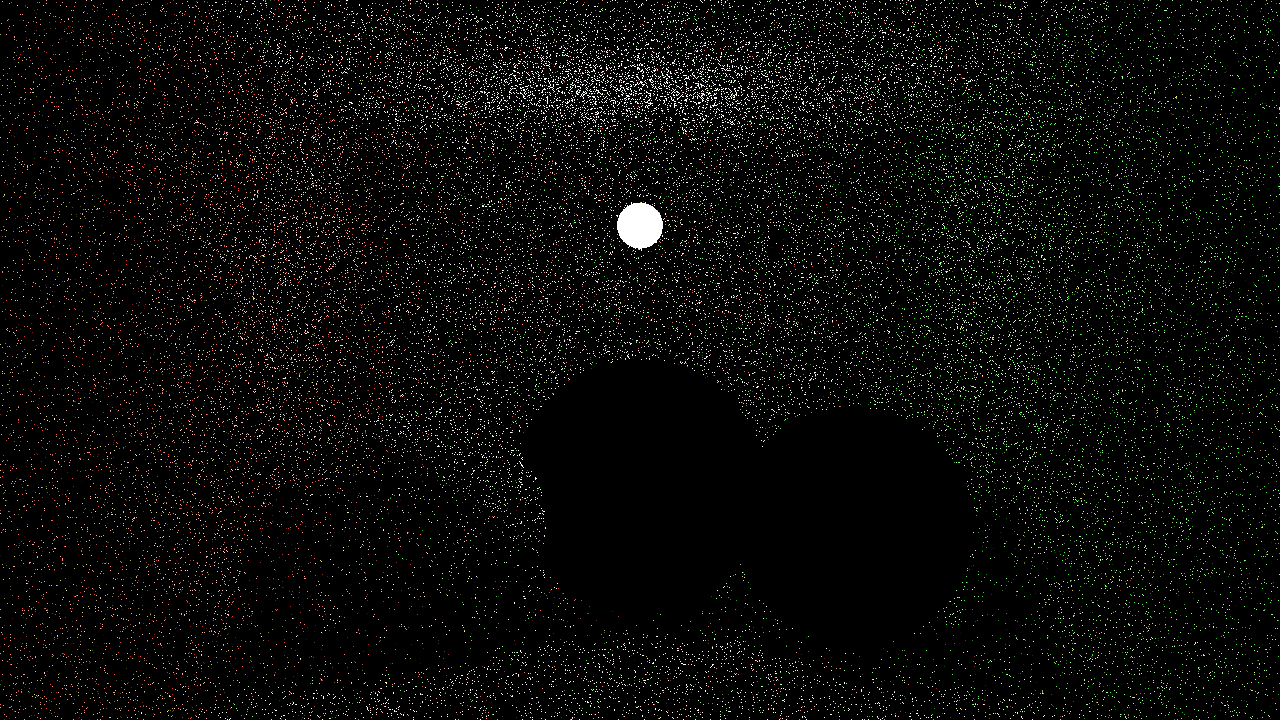
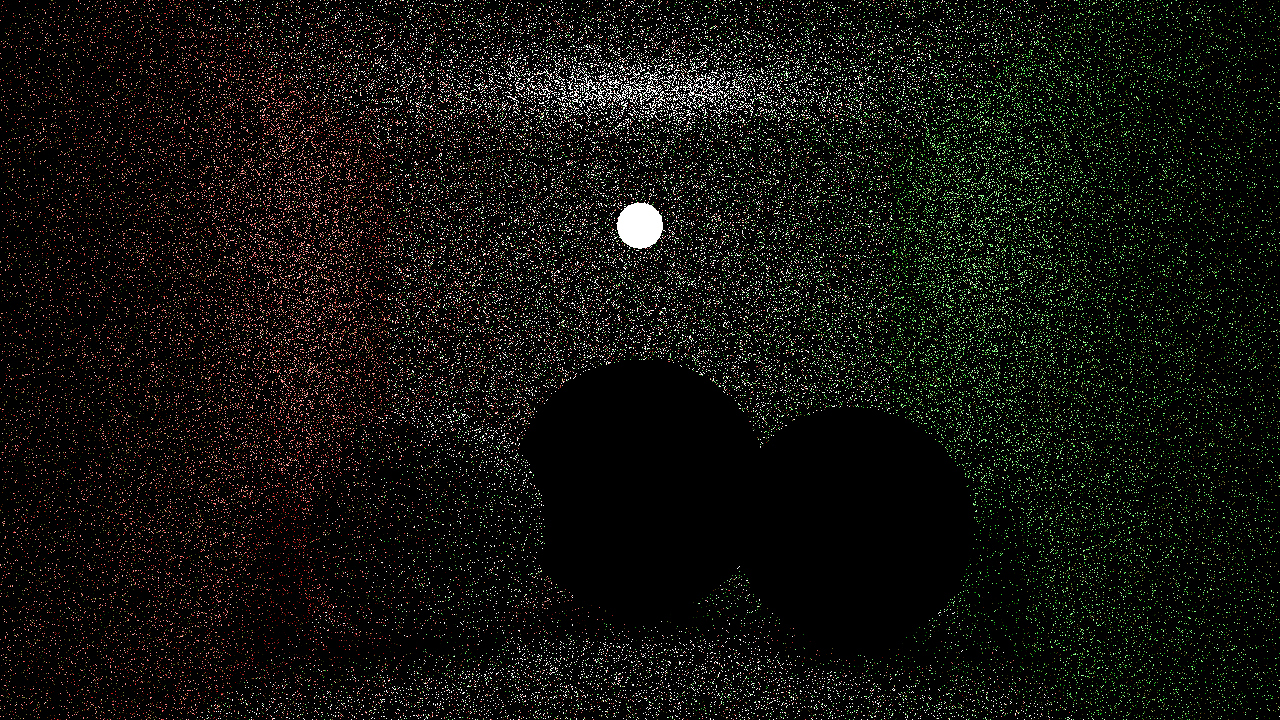
Switched to cosine weighted sampling for path tracing bounce

diff --git a/src/materials.h b/src/materials.h
@@ -217,27 +217,49 @@ public:
         transmissiveProb /= totalProb;
 
         const float randomNum{ sInfo.RandomFloat() };
-        if (randomNum < diffuseProb) // TODO: Do cosine weighted instead of uniform
+        //if (randomNum < diffuseProb)
+        //{
+        //    si.lobe = DirSampler::Lobe::DIFFUSE;
+
+        //    // Uniform hemisphere sample
+        //    const float r1{ sInfo.RandomFloat() };
+        //    const float cosTheta{ sInfo.RandomFloat() };
+        //    const float sinTheta{ sqrtf(1.0f - (cosTheta * cosTheta)) };
+        //    const float phi{ 2.0f * Pi<float>() * r1 };
+
+        //    const float x{ cosf(phi) * sinTheta };
+        //    const float y{ sinf(phi) * sinTheta };
+
+        //    Vec3f u, v;
+        //    sInfo.N().GetOrthonormals(u, v);
+
+        //    dir = (u * x) + (v * y) + (sInfo.N() * cosTheta);
+
+        //    si.prob = diffuseProb / (2.0f * Pi<float>());
+        //    si.mult = diffuse.GetValue() / Pi<float>();
+
+        //    return true;
+        //}
+        if (randomNum < diffuseProb)
         {
             si.lobe = DirSampler::Lobe::DIFFUSE;
 
-            // Uniform hemisphere sample
-            const float r1{ sInfo.RandomFloat() };
-            const float cosTheta{ sInfo.RandomFloat() };
-            const float sinTheta{ sqrtf(1.0f - (cosTheta * cosTheta)) };
-            const float phi{ 2.0f * Pi<float>() * r1 };
-
-            const float x{ cosf(phi) * sinTheta };
-            const float y{ sinf(phi) * sinTheta };
+            // Cosine weighted hemisphere sample
+            const float r{ sqrtf(sInfo.RandomFloat()) };
+            const float theta{ 2.0f * Pi<float>() * sInfo.RandomFloat() };
+            const float x{ r * cosf(theta) };
+            const float y{ r * sinf(theta) };
+            const float z{ sqrtf(std::max(0.0f, 1.0f - x*x - y*y)) };
 
             Vec3f u, v;
             sInfo.N().GetOrthonormals(u, v);
 
-            dir = (u * x) + (v * y) + (sInfo.N() * cosTheta);
+            dir = (u * x) + (v * y) + (sInfo.N() * z);
+
             const float geometryTerm{ std::max(0.0f, sInfo.N().Dot(dir)) };
 
-            si.prob = diffuseProb / (2.0f * Pi<float>());
-            si.mult = diffuse.GetValue() * geometryTerm / Pi<float>();
+            si.mult = diffuse.GetValue() / Pi<float>();
+            si.prob = diffuseProb * (geometryTerm / Pi<float>());
 
             return true;
         }

diff --git a/src/main.cpp b/src/main.cpp
@@ -161,7 +161,7 @@ Color tracePath(Ray ray)
 {
     Color throughput{ 1.0f };
     Color result{ 0.0f };
-    constexpr size_t maxBounces{ 5 };
+    constexpr size_t maxBounces{ 50 };
     const Light* light{ renderer.GetScene().lights[0] };
 
     float lastBounceProb{ 1.0f };
@@ -207,8 +207,8 @@ Color tracePath(Ray ray)
         const MtlBasePhongBlinn* material{ static_cast<const MtlBasePhongBlinn*>(hInfo.node->GetMaterial()) };
 
         // Next event estimation
-        DirSampler::Info nextEventInfo;
-        Vec3f nextEventShadowDir;
+        //DirSampler::Info nextEventInfo;
+        //Vec3f nextEventShadowDir;
         //if (light->GenerateSample(sInfo, nextEventShadowDir, nextEventInfo))
         //{
         //    const float sign{ hInfo.front ? 1.0f : -1.0f };
@@ -249,11 +249,10 @@ Color tracePath(Ray ray)
         const float sign{ (normal.Dot(bounceDir) > 0.0f) ? 1.0f : -1.0f };
         ray.p = hInfo.p + (normal * 0.002f * sign);
 
-        //const float cosTheta{ bounceDir.Dot(normal) };
-        //throughput *= (indirectLightingInfo.mult * cosTheta) / indirectLightingInfo.prob;
-        throughput *= indirectLightingInfo.mult / indirectLightingInfo.prob;
+        const float cosTheta{ normal.Dot(bounceDir * sign) };
+        throughput *= (indirectLightingInfo.mult * cosTheta) / indirectLightingInfo.prob;
 
-        //if (bounce > 2)
+        //if (bounce > 3)
         //{
         //    const float prob{ throughput.Max() };
         //    if (tileThreads::rng.RandomFloat() > prob)
